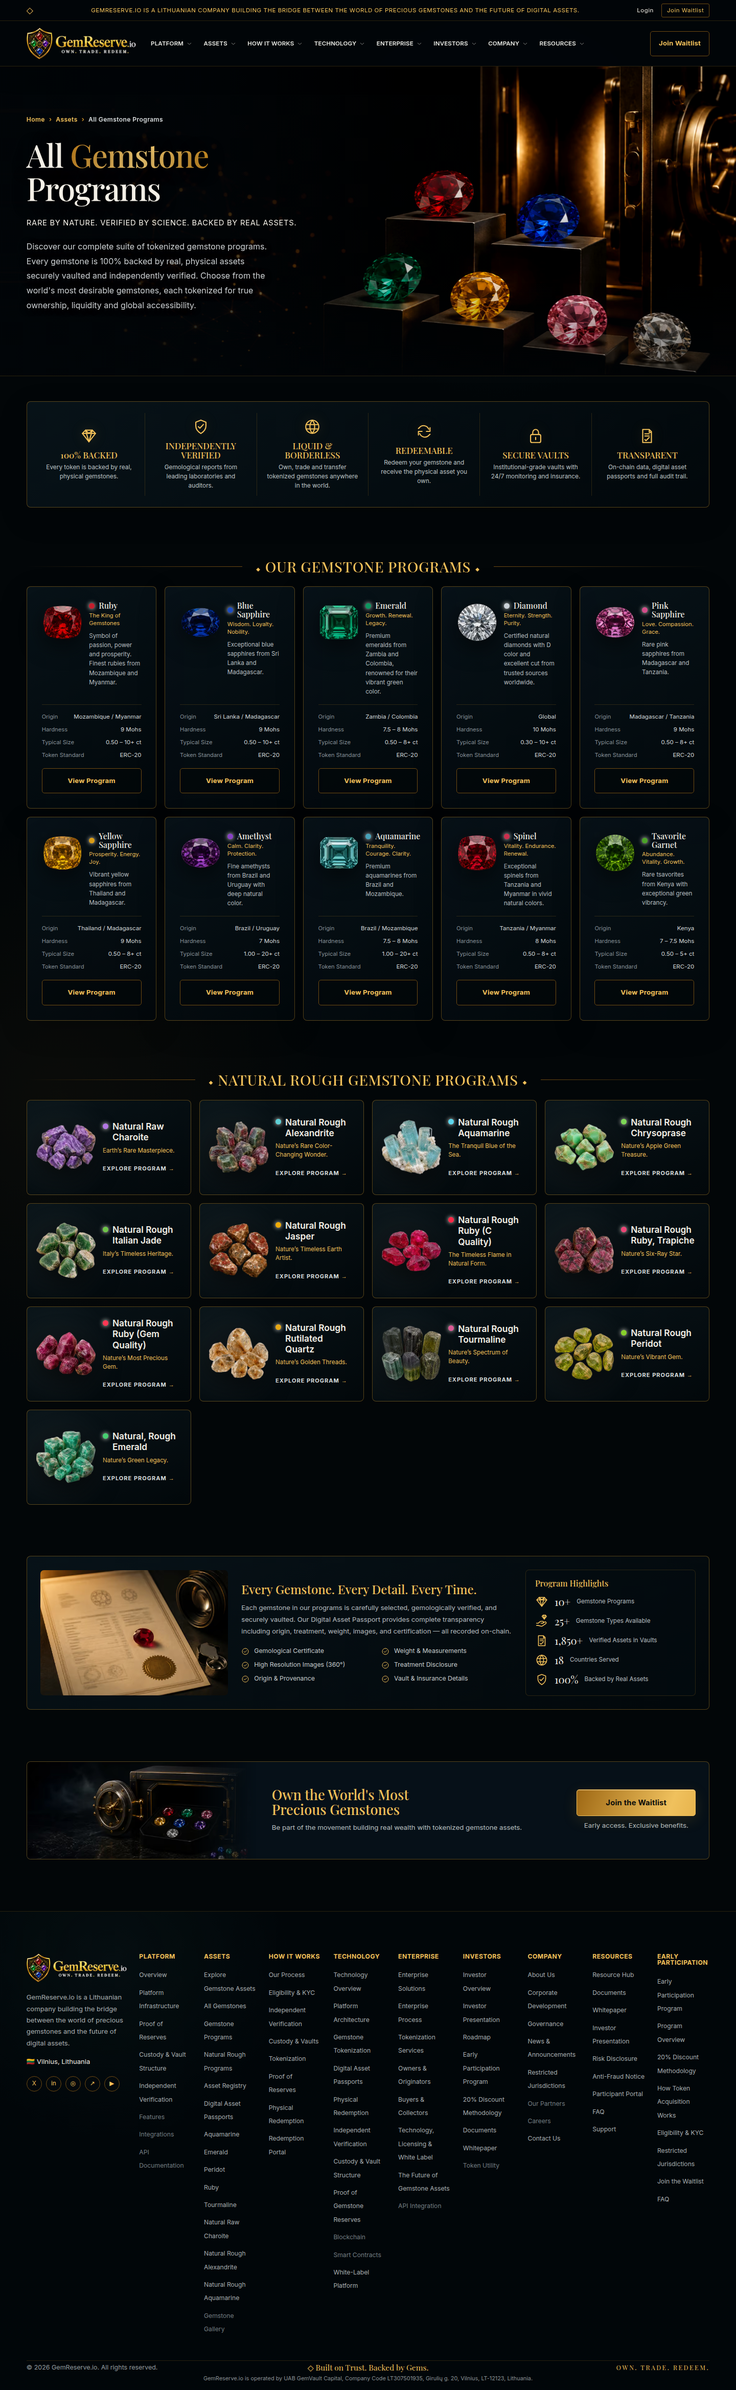
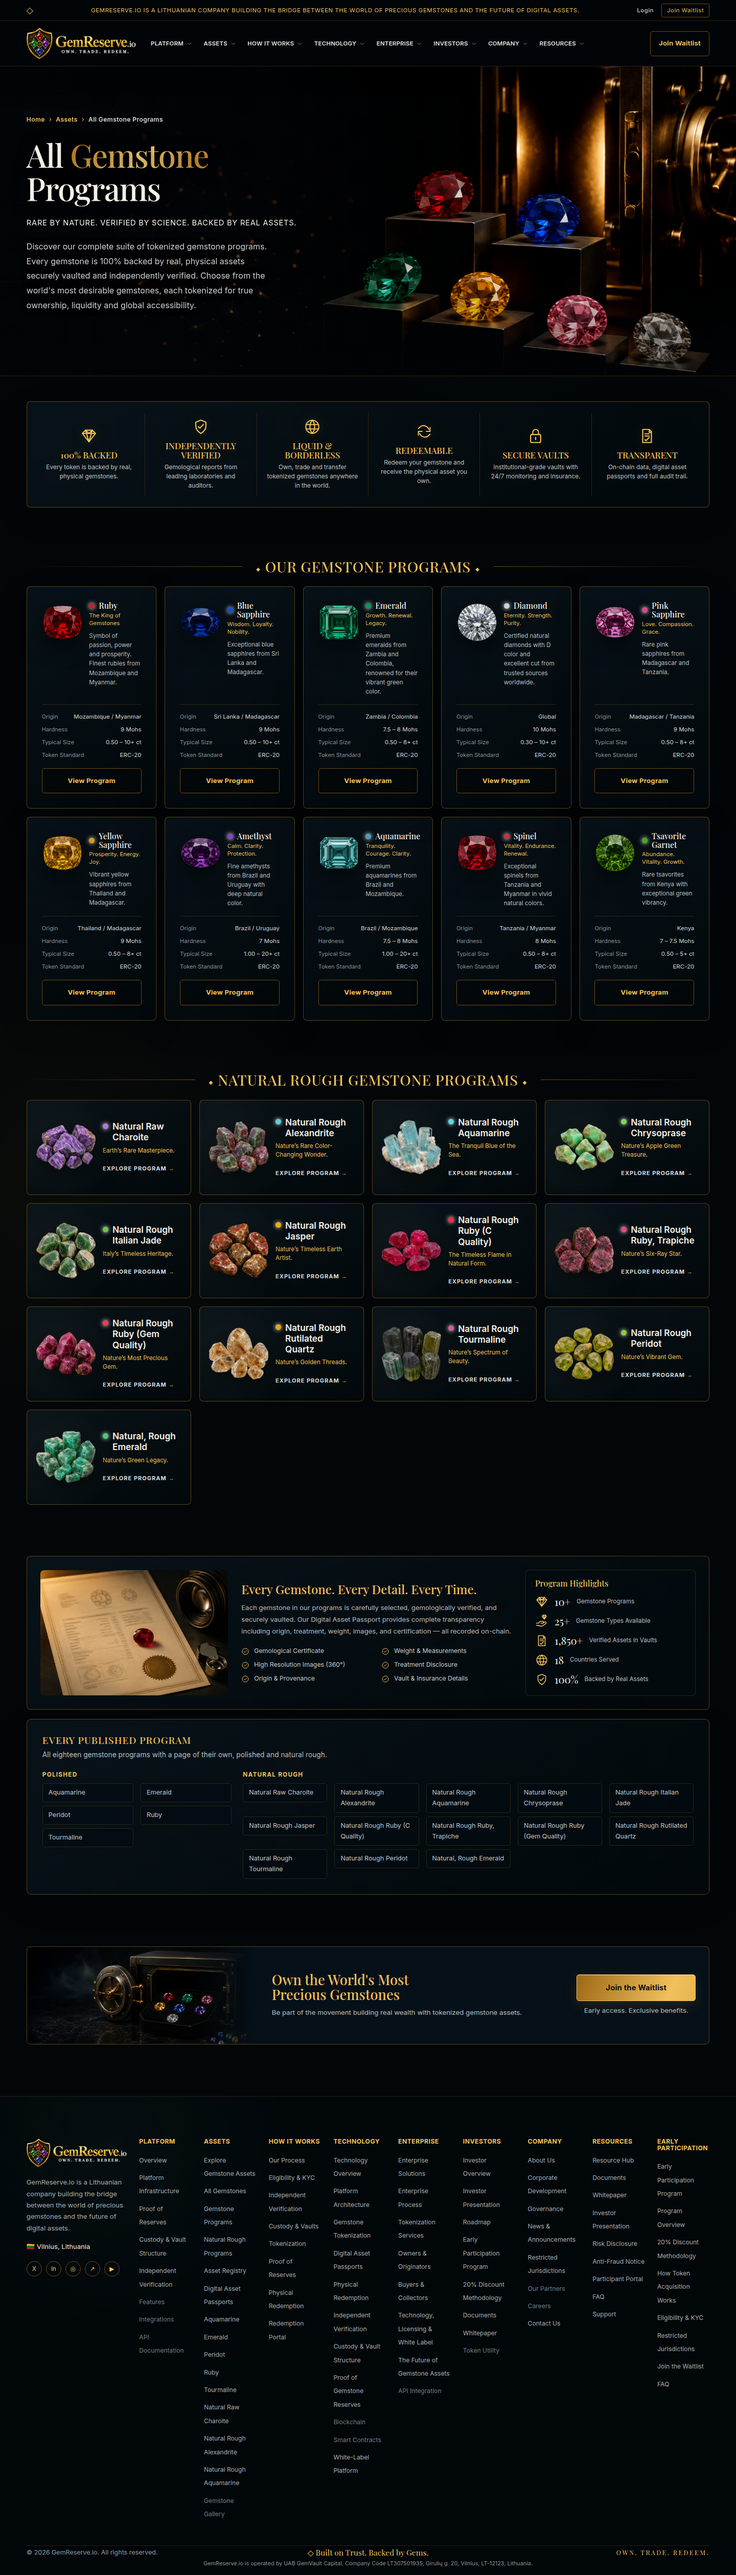
Close two parent-detail gaps found by the completeness audit
A board-by-board audit of the archive against the routes: 58 boards, 58 routes,
mapping 1:1 in both directions with no orphan either way, every route in the
sitemap, every route returning 200, and every route linked from somewhere other
than itself. No page was missing. Two links were.

Peridot and Tourmaline set their breadcrumb to "Home > Assets > All Gemstone
Programs", as Ruby, Emerald and Aquamarine do — but /gemstone-programs linked
only sixteen of the eighteen gemstone pages that name it as their parent. The
board's own grid draws ten stones and links the three of those that have a
page, which is faithful and stays as it is; the two it never drew had nowhere
to be reached from on their declared parent. They are covered by an index of
every published programme beneath the grid, generated from the same data the
rough programmes already come from, so a stone added later cannot fall out of
it. No card was added to the board's grid and no artwork was invented for two
stones that have no faceted cut-out.

/assets carried a "View Asset Registry" panel that was a disabled button
labelled "coming soon". /asset-registry has been published for some time; the
control was written before it existed and never wired up. It is a link now, and
its description says what the registry page actually holds rather than
promising the assets "on the blockchain", which is not live.

Three tests hold both: the hub must link all eighteen gemstone pages, the
[…]

diff --git a/app/globals.css b/app/globals.css
@@ -1983,7 +1983,27 @@ h3 {
   background: linear-gradient(145deg, rgb(11 24 30 / 85%), rgb(3 9 12 / 90%));
   color: var(--gold-light);
   text-align: left;
-  opacity: 0.74;
+  transition:
+    border-color 220ms ease,
+    background 220ms ease,
+    transform 300ms var(--ease-premium);
+}
+
+/* It shipped dimmed because it was a disabled control; it is a link to the
+   published Asset Registry now, so it carries the same hover the other
+   navigational panels do. */
+.assets-registry-control:hover {
+  border-color: var(--gold-light);
+  background: linear-gradient(145deg, rgb(216 154 39 / 12%), rgb(3 9 12 / 90%));
+  transform: translateY(-2px);
+}
+
+.assets-registry-control__arrow {
+  transition: transform 220ms var(--ease-premium);
+}
+
+.assets-registry-control:hover .assets-registry-control__arrow {
+  transform: translateX(4px);
 }
 
 .assets-registry-control__copy {
@@ -2000,12 +2020,6 @@ h3 {
   color: #acb3b5;
   font-size: 0.72rem;
   line-height: 1.45;
-}
-
-.assets-registry-control__copy small {
-  color: var(--muted);
-  font-size: 0.72rem;
-  text-transform: uppercase;
 }
 
 .catalog-root {
@@ -21235,5 +21249,89 @@ a.fraud-channel__value {
     aspect-ratio: 4 / 5;
     border-right: 0;
     border-bottom: 1px solid var(--border-soft);
+  }
+}
+
+/* --- The gemstone programme index ---------------------------------------- */
+/* Closes the parent/detail gap on /gemstone-programs: the board's grid draws
+   ten stones and links three, while eighteen pages declare this page as their
+   parent. A plain list rather than more cards, because the board draws no more
+   cards and two of the stones have no faceted artwork to put in one. */
+
+.programs-index {
+  margin-top: 18px;
+  padding: clamp(20px, 2.2vw, 30px);
+  border: 1px solid var(--border);
+  border-radius: 9px;
+  background: linear-gradient(145deg, rgb(9 21 28 / 82%), rgb(2 8 12 / 82%));
+  box-shadow:
+    inset 0 1px rgb(255 255 255 / 2%),
+    0 18px 55px rgb(0 0 0 / 20%);
+}
+
+.programs-index h2 {
+  margin-bottom: 8px;
+  color: var(--gold-light);
+  font-size: clamp(1.02rem, 1.5vw, 1.2rem);
+  letter-spacing: 0.05em;
+  text-transform: uppercase;
+}
+
+.programs-index > p {
+  max-width: 74ch;
+  margin-bottom: 20px;
+  color: #b6bdc0;
+  font-size: 0.86rem;
+  line-height: 1.7;
+}
+
+.programs-index__groups {
+  display: grid;
+  grid-template-columns: minmax(0, 0.42fr) minmax(0, 1fr);
+  gap: 22px;
+}
+
+.programs-index h3 {
+  margin-bottom: 11px;
+  color: var(--gold-light);
+  font-family: var(--font-sans), Arial, sans-serif;
+  font-size: 0.74rem;
+  font-weight: 700;
+  letter-spacing: 0.1em;
+  text-transform: uppercase;
+}
+
+.programs-index ul {
+  display: grid;
+  grid-template-columns: repeat(auto-fill, minmax(160px, 1fr));
+  gap: 7px 14px;
+  margin: 0;
+  padding: 0;
+  list-style: none;
+}
+
+.programs-index a {
+  display: block;
+  padding: 7px 11px;
+  border: 1px solid var(--border-soft);
+  border-radius: 5px;
+  background: rgb(4 12 17 / 62%);
+  color: #c2c8cb;
+  font-size: 0.79rem;
+  transition:
+    border-color 200ms ease,
+    background 200ms ease,
+    color 200ms ease;
+}
+
+.programs-index a:hover {
+  border-color: var(--border);
+  background: rgb(216 154 39 / 8%);
+  color: var(--gold-light);
+}
+
+@media (max-width: 980px) {
+  .programs-index__groups {
+    grid-template-columns: minmax(0, 1fr);
   }
 }

diff --git a/qa/tests/phase-one.spec.ts b/qa/tests/phase-one.spec.ts
@@ -964,3 +964,77 @@ test.describe("the closing pages keep the boards' claims off the site", () => {
     expect(body).not.toMatch(/limited allocation|spots are limited/i);
   });
 });
+
+test.describe("every page the site declares a parent for is reachable from it", () => {
+  test("the programmes hub links all eighteen published gemstone pages", async ({
+    page,
+  }) => {
+    // Each polished and rough gemstone board sets its breadcrumb to
+    // "Home > Assets > All Gemstone Programs", so this page is their declared
+    // parent. The board's own grid draws ten stones and links the three that
+    // have a page; the index below it has to carry the rest.
+    await page.goto("/gemstone-programs", { waitUntil: "networkidle" });
+    const hrefs = await page.evaluate(() =>
+      [...document.querySelectorAll("main a[href]")].map(
+        (a) => (a.getAttribute("href") || "").split("#")[0],
+      ),
+    );
+    const linked = new Set(hrefs);
+    const gemstonePages = [
+      "/aquamarine",
+      "/emerald",
+      "/peridot",
+      "/ruby",
+      "/tourmaline",
+      "/natural-raw-charoite",
+      "/natural-rough-alexandrite",
+      "/natural-rough-aquamarine",
+      "/natural-rough-chrysoprase",
+      "/natural-rough-italian-jade",
+      "/natural-rough-jasper",
+      "/natural-rough-ruby-c-quality",
+      "/natural-rough-ruby-trapiche",
+      "/natural-rough-ruby-gem-quality",
+      "/natural-rough-rutilated-quartz",
+      "/natural-rough-tourmaline",
+      "/natural-rough-peridot",
+      "/natural-rough-emerald",
+    ];
+    expect(gemstonePages.filter((p) => !linked.has(p))).toEqual([]);
+  });
+
+  test("the assets registry panel opens the registry it names", async ({
+    page,
+  }) => {
+    // It shipped as a disabled button marked "coming soon" while the page it
+    // names was already published.
+    await page.goto("/assets", { waitUntil: "networkidle" });
+    const control = page.locator(".assets-registry-control");
+    await expect(control).toHaveAttribute("href", "/asset-registry");
+    await expect(control).not.toContainText("Coming soon");
+    await control.click();
+    await expect(page).toHaveURL(/\/asset-registry$/);
+    await expect(page.locator("h1")).toHaveCount(1);
+  });
+
+  test("no route is orphaned from the whole site", async ({ page }) => {
+    // Every route in the sitemap must be linked from somewhere other than
+    // itself — navigation, footer, or a parent page.
+    await page.goto("/sitemap.xml", { waitUntil: "domcontentloaded" });
+    const xml = await page.content();
+    const routes = [...xml.matchAll(/<loc>([^<]+)<\/loc>/g)].map(
+      (m) => new URL(m[1]).pathname,
+    );
+    const linked = new Set<string>();
+    for (const route of routes) {
+      await page.goto(route, { waitUntil: "domcontentloaded" });
+      const hrefs = await page.evaluate(() =>
+        [...document.querySelectorAll("a[href]")].map(
+          (a) => (a.getAttribute("href") || "").split("#")[0],
+        ),
+      );
+      for (const href of hrefs) if (href && href !== route) linked.add(href);
+    }
+    expect(routes.filter((r) => !linked.has(r))).toEqual([]);
+  });
+});

diff --git a/app/gemstone-programs/page.tsx b/app/gemstone-programs/page.tsx
@@ -12,6 +12,7 @@ import { ResponsiveHeroImage } from "@/components/ui/ResponsiveHeroImage";
 import { SectionHeading } from "@/components/ui/SectionHeading";
 import {
   everyGemstone,
+  programIndex,
   gemstonePrograms,
   programActionLabel,
   programBadges,
@@ -273,6 +274,37 @@ export default function GemstoneProgramsPage() {
                   </div>
                 ))}
               </dl>
+            </div>
+          </MotionReveal>
+
+          {/* The board's grid above carries ten stones and links the three that
+              have a page. Peridot and Tourmaline declare this page as their
+              parent in their own breadcrumbs, so the index below makes the
+              relationship complete without adding cards the board never drew. */}
+          <MotionReveal className="programs-index" delay={90}>
+            <h2 id="programs-index-title">{programIndex.title}</h2>
+            <p>{programIndex.intro}</p>
+            <div className="programs-index__groups">
+              <div>
+                <h3>{programIndex.polishedLabel}</h3>
+                <ul>
+                  {programIndex.polished.map((entry) => (
+                    <li key={entry.href}>
+                      <Link href={entry.href}>{entry.label}</Link>
+                    </li>
+                  ))}
+                </ul>
+              </div>
+              <div>
+                <h3>{programIndex.roughLabel}</h3>
+                <ul>
+                  {programIndex.rough.map((entry) => (
+                    <li key={entry.href}>
+                      <Link href={entry.href}>{entry.label}</Link>
+                    </li>
+                  ))}
+                </ul>
+              </div>
             </div>
           </MotionReveal>
         </section>

diff --git a/content/programs.ts b/content/programs.ts
@@ -390,6 +390,46 @@ export const everyGemstone = {
   highlightsTitle: "Program Highlights",
 } as const;
 
+/**
+ * The complete index of published gemstone programme pages.
+ *
+ * The board's "OUR GEMSTONE PROGRAMS" grid above is transcribed exactly as
+ * drawn: ten stones, of which only three have a detail page. But the Peridot
+ * and Tourmaline boards both set their breadcrumb to "Home > Assets > All
+ * Gemstone Programs", so this page is their declared parent and was not linking
+ * back to them — the two of eighteen that no route reached from here.
+ *
+ * Rather than add cards the board does not draw (and for which no faceted
+ * artwork exists), the index closes the gap as a plain list. It is generated
+ * from the two programme collections above plus the polished pages the board's
+ * grid omits, so a stone added later cannot fall out of it.
+ */
+export interface ProgramIndexEntry {
+  readonly label: string;
+  readonly href: string;
+}
+
+const polishedProgramPages: readonly ProgramIndexEntry[] = [
+  { label: "Aquamarine", href: "/aquamarine" },
+  { label: "Emerald", href: "/emerald" },
+  { label: "Peridot", href: "/peridot" },
+  { label: "Ruby", href: "/ruby" },
+  { label: "Tourmaline", href: "/tourmaline" },
+];
+
+export const programIndex = {
+  title: "Every published program",
+  intro:
+    "All eighteen gemstone programs with a page of their own, polished and natural rough.",
+  polishedLabel: "Polished",
+  roughLabel: "Natural rough",
+  polished: polishedProgramPages,
+  rough: roughGemstonePrograms.map((program) => ({
+    label: program.name,
+    href: program.href,
+  })) as readonly ProgramIndexEntry[],
+};
+
 export interface ProgramHighlight {
   id: string;
   value: string;

diff --git a/content/assets.ts b/content/assets.ts
@@ -38,9 +38,10 @@ export interface AssetMetric extends VerificationFlag {
   readonly detail: string;
 }
 
-export interface AssetRegistryCta extends VerificationFlag {
+export interface AssetRegistryCta {
   readonly title: string;
   readonly description: string;
+  readonly href: string;
 }
 
 export interface AssetFilterOption {
@@ -207,10 +208,20 @@ export const assetMetrics = [
   },
 ] as const satisfies readonly AssetMetric[];
 
+/**
+ * The board's registry call to action.
+ *
+ * It was written before /asset-registry existed and shipped disabled, marked
+ * "coming soon", while the page it names has been published since. The control
+ * is a link now. The board's own line promised the assets "on the blockchain";
+ * the registry page carries a sample record and is explicit that lookup opens
+ * with the platform, so the description says what the page actually holds.
+ */
 export const assetRegistryCta = {
   title: "View Asset Registry",
-  description: "See all verified gemstone assets on the blockchain",
-  requiresClientVerification: true,
+  description:
+    "How every verified gemstone is recorded, and what a record holds",
+  href: "/asset-registry",
 } as const satisfies AssetRegistryCta;
 
 export const assetCatalogHeading = "OUR GEMSTONE ASSETS";

diff --git a/app/assets/page.tsx b/app/assets/page.tsx
@@ -133,12 +133,9 @@ export default function AssetsPage() {
               className="assets-metrics__strip"
             />
 
-            <button
+            <Link
               className="assets-registry-control"
-              type="button"
-              disabled
-              aria-disabled="true"
-              title="The Asset Registry is coming in a future phase"
+              href={assetRegistryCta.href}
             >
               <LineIcon
                 name="certificate"
@@ -148,7 +145,6 @@ export default function AssetsPage() {
               <span className="assets-registry-control__copy">
                 <strong>{assetRegistryCta.title}</strong>
                 <span>{assetRegistryCta.description}</span>
-                <small>Coming soon</small>
               </span>
               <span
                 className="assets-registry-control__arrow"
@@ -156,7 +152,7 @@ export default function AssetsPage() {
               >
                 →
               </span>
-            </button>
+            </Link>
           </MotionReveal>
         </section>
 
